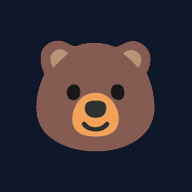
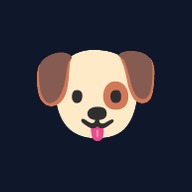
入口頁：圖示改為小狗 🐶
Claude-Session: https://claude.ai/code/session_018WoQN4UTXGKGS2TM6guR2t

Changed region(s): [[0.1875, 0.1875, 0.8125, 0.8125]]

diff --git a/index.html b/index.html
@@ -61,7 +61,7 @@
   <aside class="drawer" id="navDrawer" aria-hidden="true">
     <div class="drawer-header">
       <div class="drawer-branding">
-        <span class="branding-logo">🐻</span>
+        <span class="branding-logo">🐶</span>
         <span class="branding-text">Simon's Hub</span>
       </div>
       <button class="icon-btn close-btn" id="drawerCloseBtn" aria-label="關閉選單">
